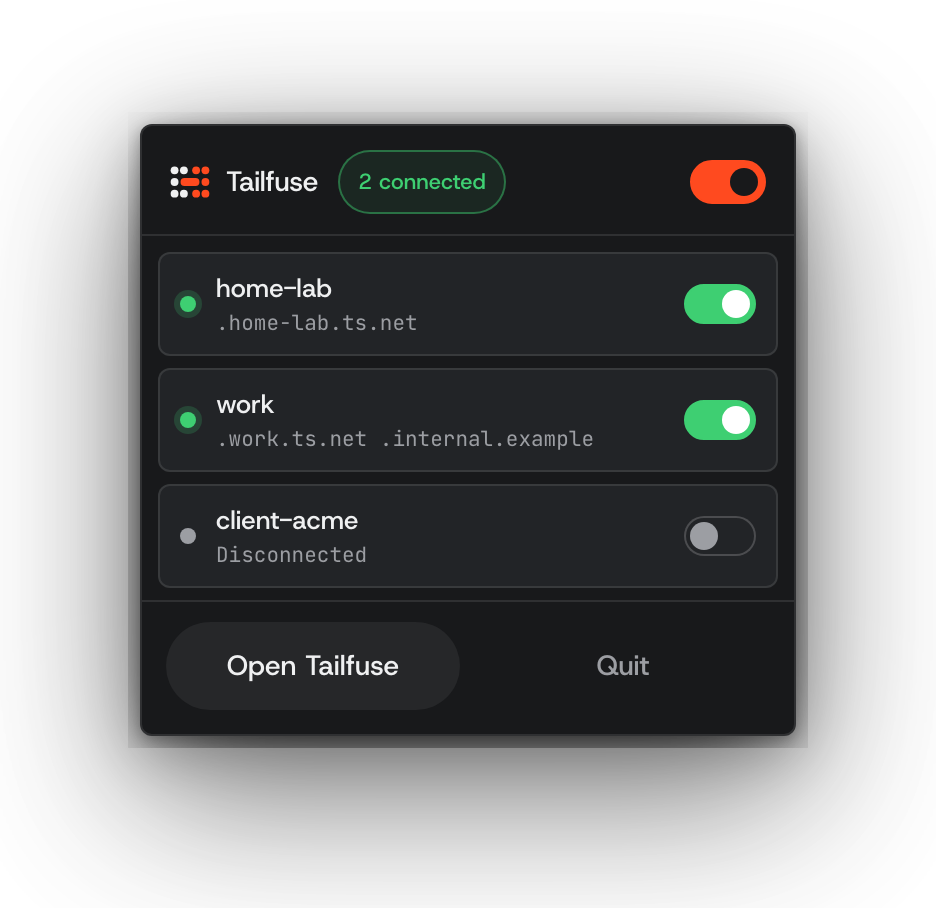
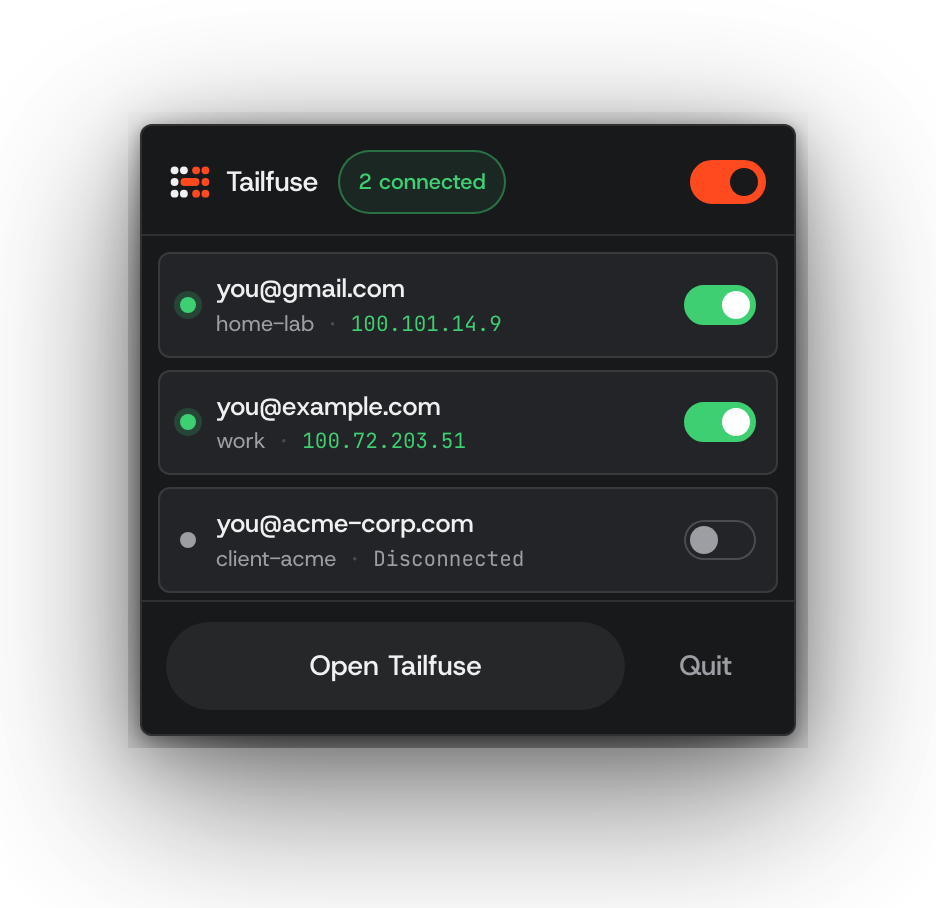
Menu-bar panel: each tailnet is shown by the account it signed in with, the profile name and its state (or address) underneath; Open Tailfuse takes the width, Quit sits beside it

diff --git a/app/src/panel.css b/app/src/panel.css
@@ -91,7 +91,12 @@ body {
 .dot.on { background: var(--ok); box-shadow: 0 0 0 3px color-mix(in oklab, var(--ok) 20%, transparent); }
 
 .row-main { display: grid; gap: 0; flex: 1; min-width: 0; text-align: left; }
-.row-main strong { font-size: 13px; font-weight: 500; }
+.row-main strong { font-size: 13px; font-weight: 500; overflow: hidden; text-overflow: ellipsis; white-space: nowrap; }
+.row-sub { display: flex; gap: 6px; align-items: baseline; min-width: 0; font-size: 11px; color: var(--muted); white-space: nowrap; }
+.row-sub > span { overflow: hidden; text-overflow: ellipsis; }
+.row-sub > span + span::before { content: "·"; margin-right: 6px; color: var(--line-strong); }
+.row-state { font-family: var(--font-mono); font-size: 10.5px; flex: none; }
+.row-state.on { color: var(--ok); }
 .mono { font-family: var(--font-mono); font-size: 10.5px; color: var(--muted); overflow: hidden; text-overflow: ellipsis; white-space: nowrap; }
 .muted { color: var(--muted); font-size: 11px; }
 
@@ -103,7 +108,8 @@ body {
   padding: 10px 12px 12px;
   border-top: 1px solid var(--line);
 }
-.p-foot .btn { flex: 1; }
+.p-foot #open { flex: 1; }
+.p-foot #quit { flex: none; padding-inline: 18px; }
 .btn.btn--ghost { background: transparent; border-color: transparent; color: var(--muted); }
 .btn.btn--ghost:hover { color: var(--bad); border-color: color-mix(in oklab, var(--bad) 40%, transparent); }
 .btn { height: var(--btn-h-sm); }

diff --git a/app/src/panel.js b/app/src/panel.js
@@ -38,11 +38,20 @@ async function refresh() {
     dot.className = `dot ${p.online ? "on" : ""}`;
     const main = document.createElement("div");
     main.className = "row-main";
+    // The account a tailnet signed in with is what people recognise it by;
+    // the profile name moves to the second line with its state.
     const name = document.createElement("strong");
-    name.textContent = p.name;
+    name.textContent = p.account || p.name;
+    name.title = p.account || p.name;
+    const status = p.online ? (p.ips?.[0] || "Connected") : p.paused ? "Disconnected" : s.up ? "Sign-in needed" : "Off";
     const sub = document.createElement("span");
-    sub.className = "mono";
-    sub.textContent = p.online ? (p.account || p.suffixes.join("  ")) : p.paused ? "Disconnected" : s.up ? "Sign-in needed" : "Off";
+    sub.className = "row-sub";
+    const label = document.createElement("span");
+    label.textContent = p.account ? p.name : (p.suffixes[0] || "").replace(/^\./, "");
+    const stateEl = document.createElement("span");
+    stateEl.className = `row-state ${p.online ? "on" : ""}`;
+    stateEl.textContent = status;
+    sub.append(...[label.textContent && label, stateEl].filter(Boolean));
     main.append(name, sub);
     li.append(dot, main);
     if (s.up && !p.online && !p.paused) {

diff --git a/scripts/preview-stub.js b/scripts/preview-stub.js
@@ -10,9 +10,9 @@ const state = shot ? {
   license: "licensed to you@example.com",
   licensed_to: "you@example.com",
   profiles: [
-    { name: "home-lab", suffixes: [".home-lab.ts.net"], online: true, hostname: "studio-mac", ips: ["100.101.14.9"], error: "" },
-    { name: "work", suffixes: [".work.ts.net", ".internal.example"], online: true, hostname: "studio-mac-work", ips: ["100.72.203.51"], error: "" },
-    { name: "client-acme", suffixes: [".acme-corp.ts.net"], online: false, paused: true, hostname: "", ips: [], error: "" },
+    { name: "home-lab", account: "you@gmail.com", suffixes: [".home-lab.ts.net"], online: true, hostname: "studio-mac", ips: ["100.101.14.9"], error: "" },
+    { name: "work", account: "you@example.com", suffixes: [".work.ts.net", ".internal.example"], online: true, hostname: "studio-mac-work", ips: ["100.72.203.51"], error: "" },
+    { name: "client-acme", account: "you@acme-corp.com", suffixes: [".acme-corp.ts.net"], online: false, paused: true, hostname: "", ips: [], error: "" },
   ],
   proxy_problem: "",
   tailscale_app: null,
